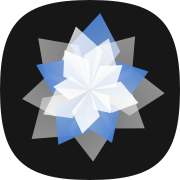
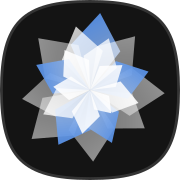
Stop the mark inverting with its surface
The tile was currentColor and the facets var(--background), so any
inverted context gave the tile the page background while the facets
stayed light. That put white on white at 1.04:1 -- the petals vanished
and only the accents survived. The generated SVG had the same failure
via a prefers-color-scheme rule that flipped the tile to #fafafa.

A brand mark should not restyle itself based on what it happens to sit
on, so there is now one appearance: a fixed dark tile carrying light
facets, at 18.42:1. Only the accent still follows the theme, via
--brand. A faint rim keeps the tile's edge from sinking into dark
browser chrome, which sits near #202124.

The preview's Inverted panel tested a case that can no longer occur, so
it now checks the mark against light, dark and black chrome instead.

diff --git a/components/swagui-mark.tsx b/components/swagui-mark.tsx
@@ -27,6 +27,23 @@ const SMALL_COUNT = 13
 const SMALL_MAX = 32
 
 const SQUIRCLE = "M12 0C21.1 0 24 2.9 24 12s-2.9 12-12 12S0 21.1 0 12 2.9 0 12 0Z"
+
+/**
+ * The mark has ONE appearance and does not invert with its surface.
+ *
+ * The tile used to be currentColor and the facets var(--background), which
+ * meant an inverted surface gave the tile the page background while the facets
+ * stayed light — white on white, with only the accents visible. A brand mark
+ * should not restyle itself based on what it happens to sit on, so the tile and
+ * facets are fixed and only the accent follows the theme via --brand.
+ */
+const INK = "#141414"
+const FACET = "#ffffff"
+/** Lifts the tile off a dark surface, which it would otherwise sink into. */
+const RIM = "#ffffff"
+const RIM_OPACITY = 0.14
+/** Only used when --brand is absent, e.g. the mark rendered outside the app. */
+const BRAND_FALLBACK = "#3f81e4"
 const KITE = "M12 12 9.1 7.1 12 3 14.9 7.1Z"
 
 const BANDS = {
@@ -126,8 +143,8 @@ export function SwaguiMark({
             x2="19"
             y2="22"
           >
-            <stop offset="0" stopColor="var(--background)" stopOpacity={from} />
-            <stop offset="1" stopColor="var(--background)" stopOpacity={to} />
+            <stop offset="0" stopColor={FACET} stopOpacity={from} />
+            <stop offset="1" stopColor={FACET} stopOpacity={to} />
           </linearGradient>
         ))}
         <linearGradient
@@ -138,12 +155,19 @@ export function SwaguiMark({
           x2="17"
           y2="18"
         >
-          <stop offset="0" stopColor="var(--brand)" stopOpacity="1" />
-          <stop offset="1" stopColor="var(--background)" stopOpacity="0.55" />
+          <stop offset="0" stopColor={`var(--brand, ${BRAND_FALLBACK})`} stopOpacity="1" />
+          <stop offset="1" stopColor={FACET} stopOpacity="0.55" />
         </linearGradient>
       </defs>
 
-      <path d={SQUIRCLE} fill="currentColor" />
+      <path d={SQUIRCLE} fill={INK} />
+      <path
+        d={SQUIRCLE}
+        fill="none"
+        stroke={RIM}
+        strokeOpacity={RIM_OPACITY}
+        strokeWidth="0.75"
+      />
       {facets.map((f) => (
         <path
           key={f.n}

diff --git a/app/_preview/logo-view.tsx b/app/_preview/logo-view.tsx
@@ -39,16 +39,26 @@ export function LogoView({ displayStyle }: { displayStyle: React.CSSProperties }
           className="mono mb-5 text-[10px] uppercase"
           style={{ letterSpacing: "0.18em", color: "var(--muted-fg)" }}
         >
-          Inverted
+          On surfaces
         </h3>
-        {/* A favicon lands on browser chrome you do not control, so the tile has
-            to hold up knocked out as well as it does filled. */}
-        <div
-          className="inline-flex items-center gap-7 rounded-2xl px-8 py-6"
-          style={{ background: "var(--foreground)", color: "var(--background)" }}
-        >
-          {[64, 40, 24, 16].map((s) => (
-            <SwaguiMark key={s} size={s} />
+        {/* The mark is fixed rather than inverting, so the thing worth checking
+            is that the tile holds its edge on chrome you do not control —
+            especially dark chrome, which it would otherwise sink into. */}
+        <div className="flex flex-wrap gap-4">
+          {[
+            { label: "light", bg: "#ffffff" },
+            { label: "dark", bg: "#202124" },
+            { label: "black", bg: "#000000" },
+          ].map(({ label, bg }) => (
+            <div
+              key={label}
+              className="flex items-center gap-7 rounded-2xl px-8 py-6"
+              style={{ background: bg }}
+            >
+              {[64, 40, 24, 16].map((s) => (
+                <SwaguiMark key={s} size={s} />
+              ))}
+            </div>
           ))}
         </div>
       </section>
